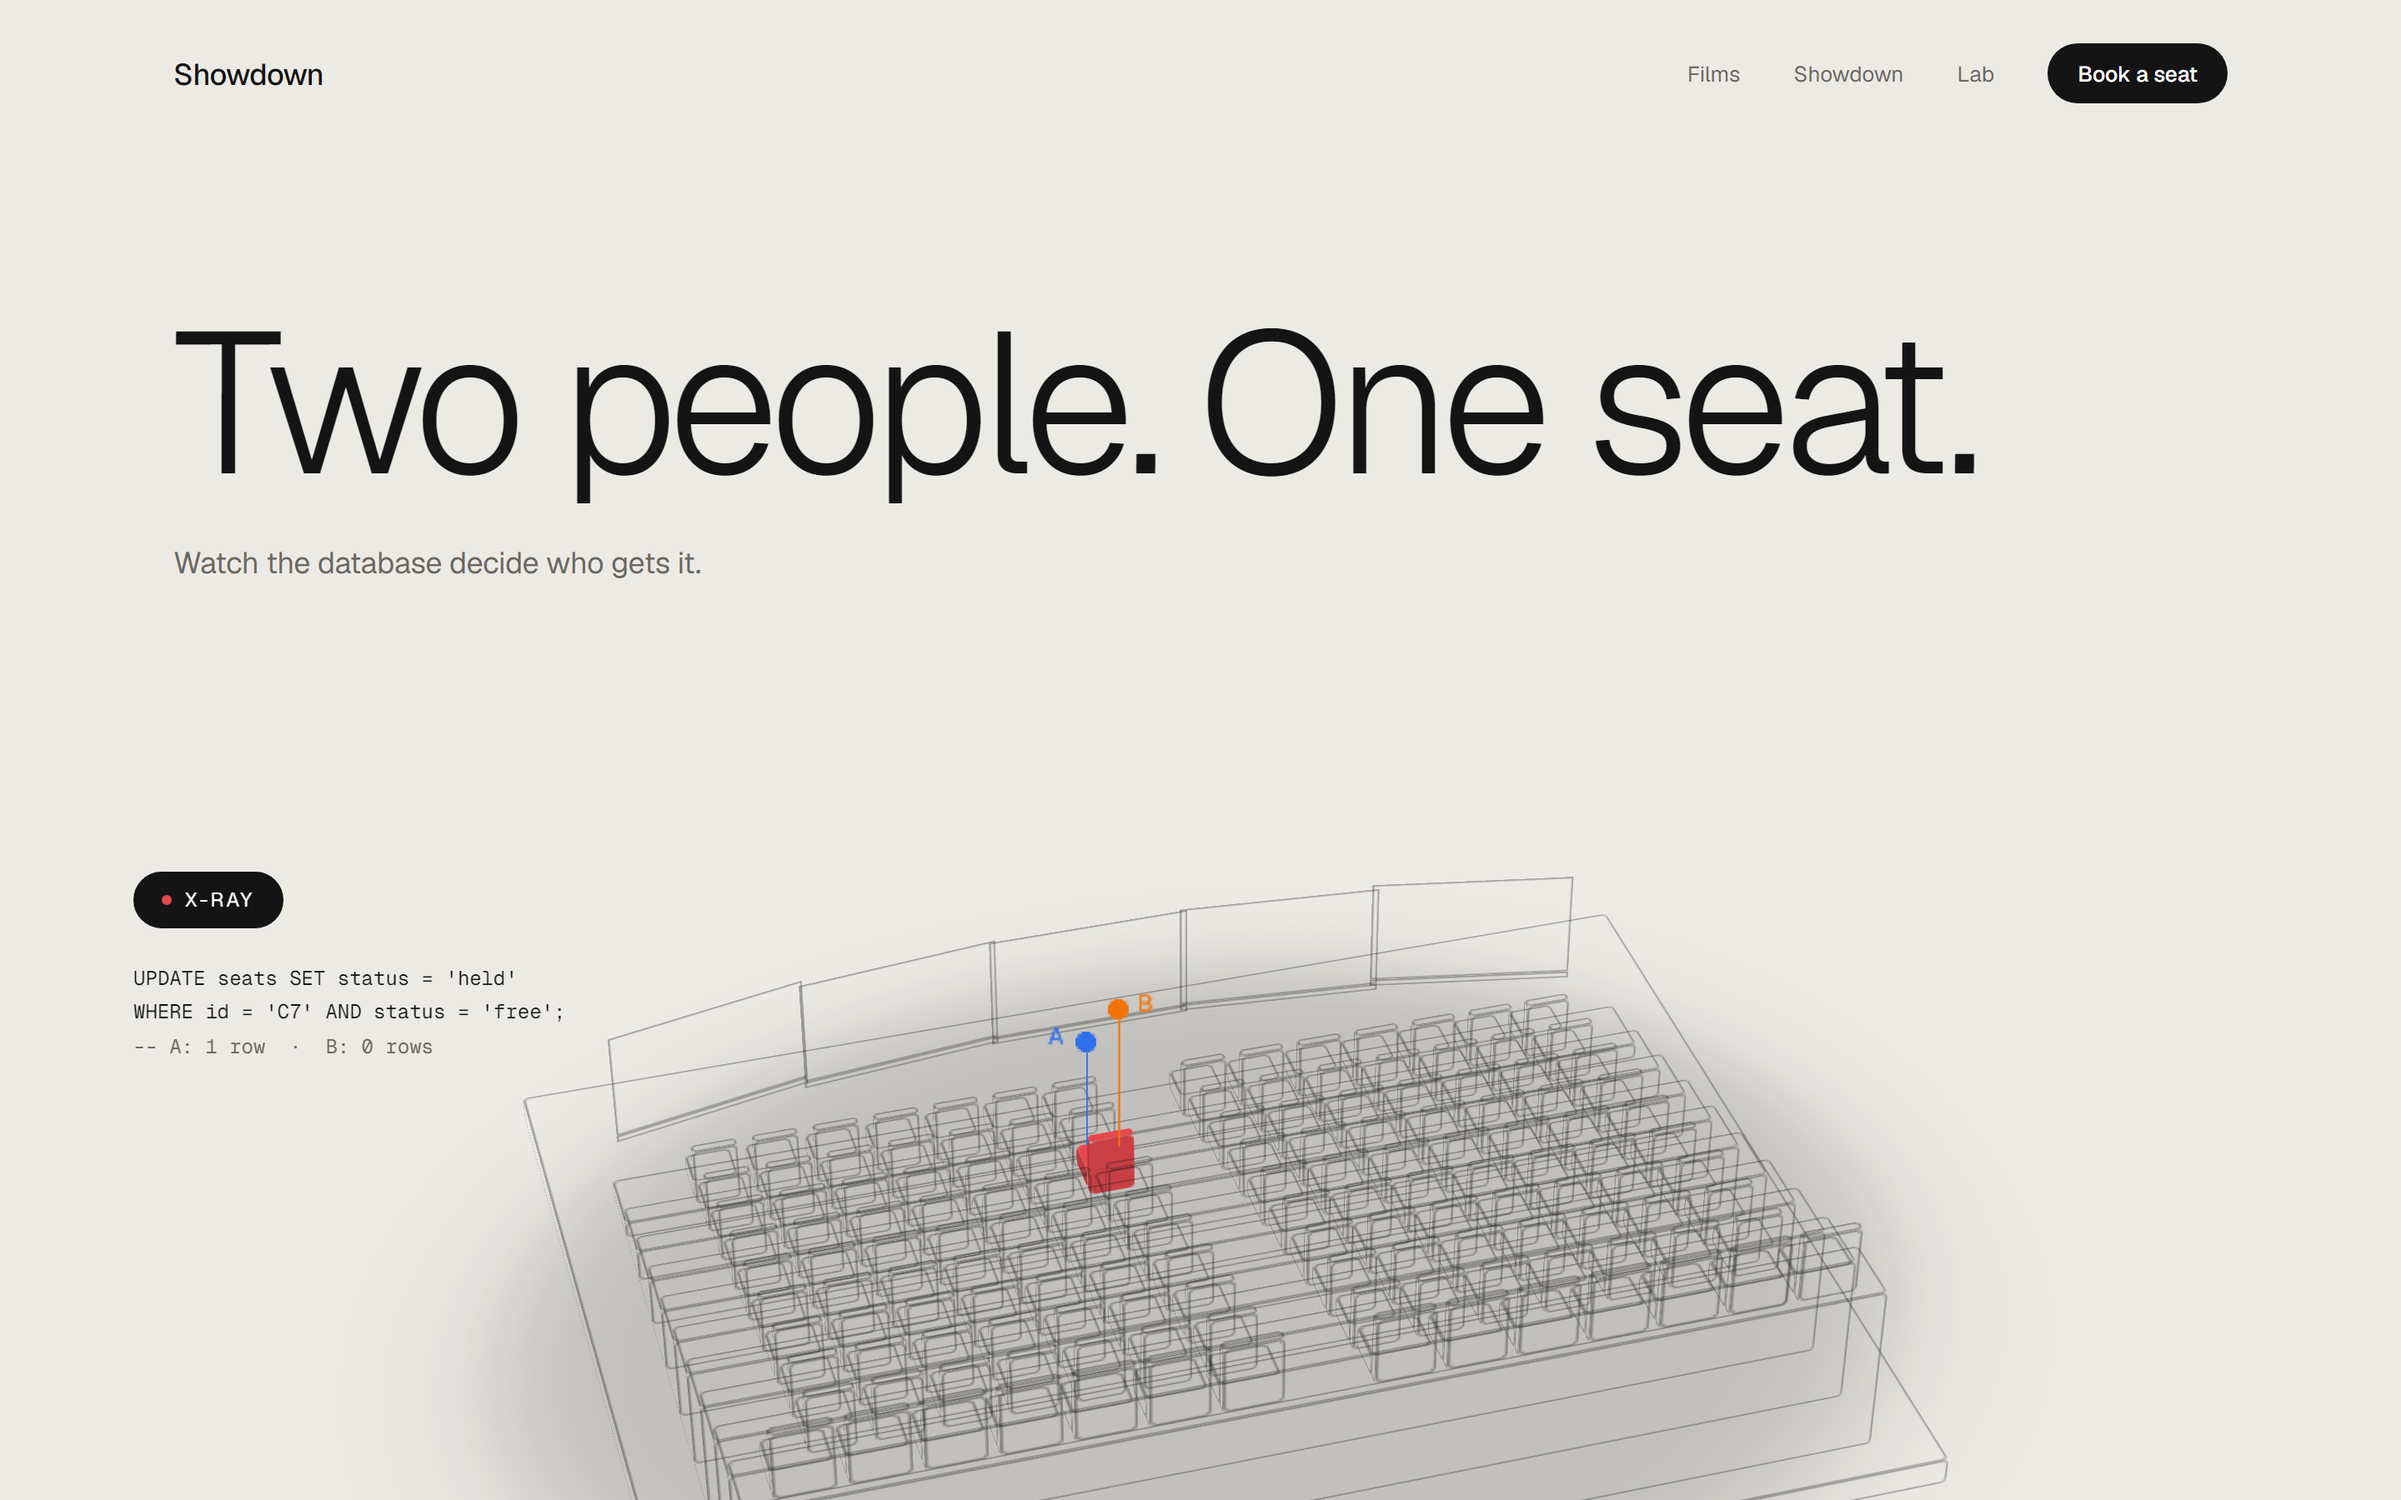
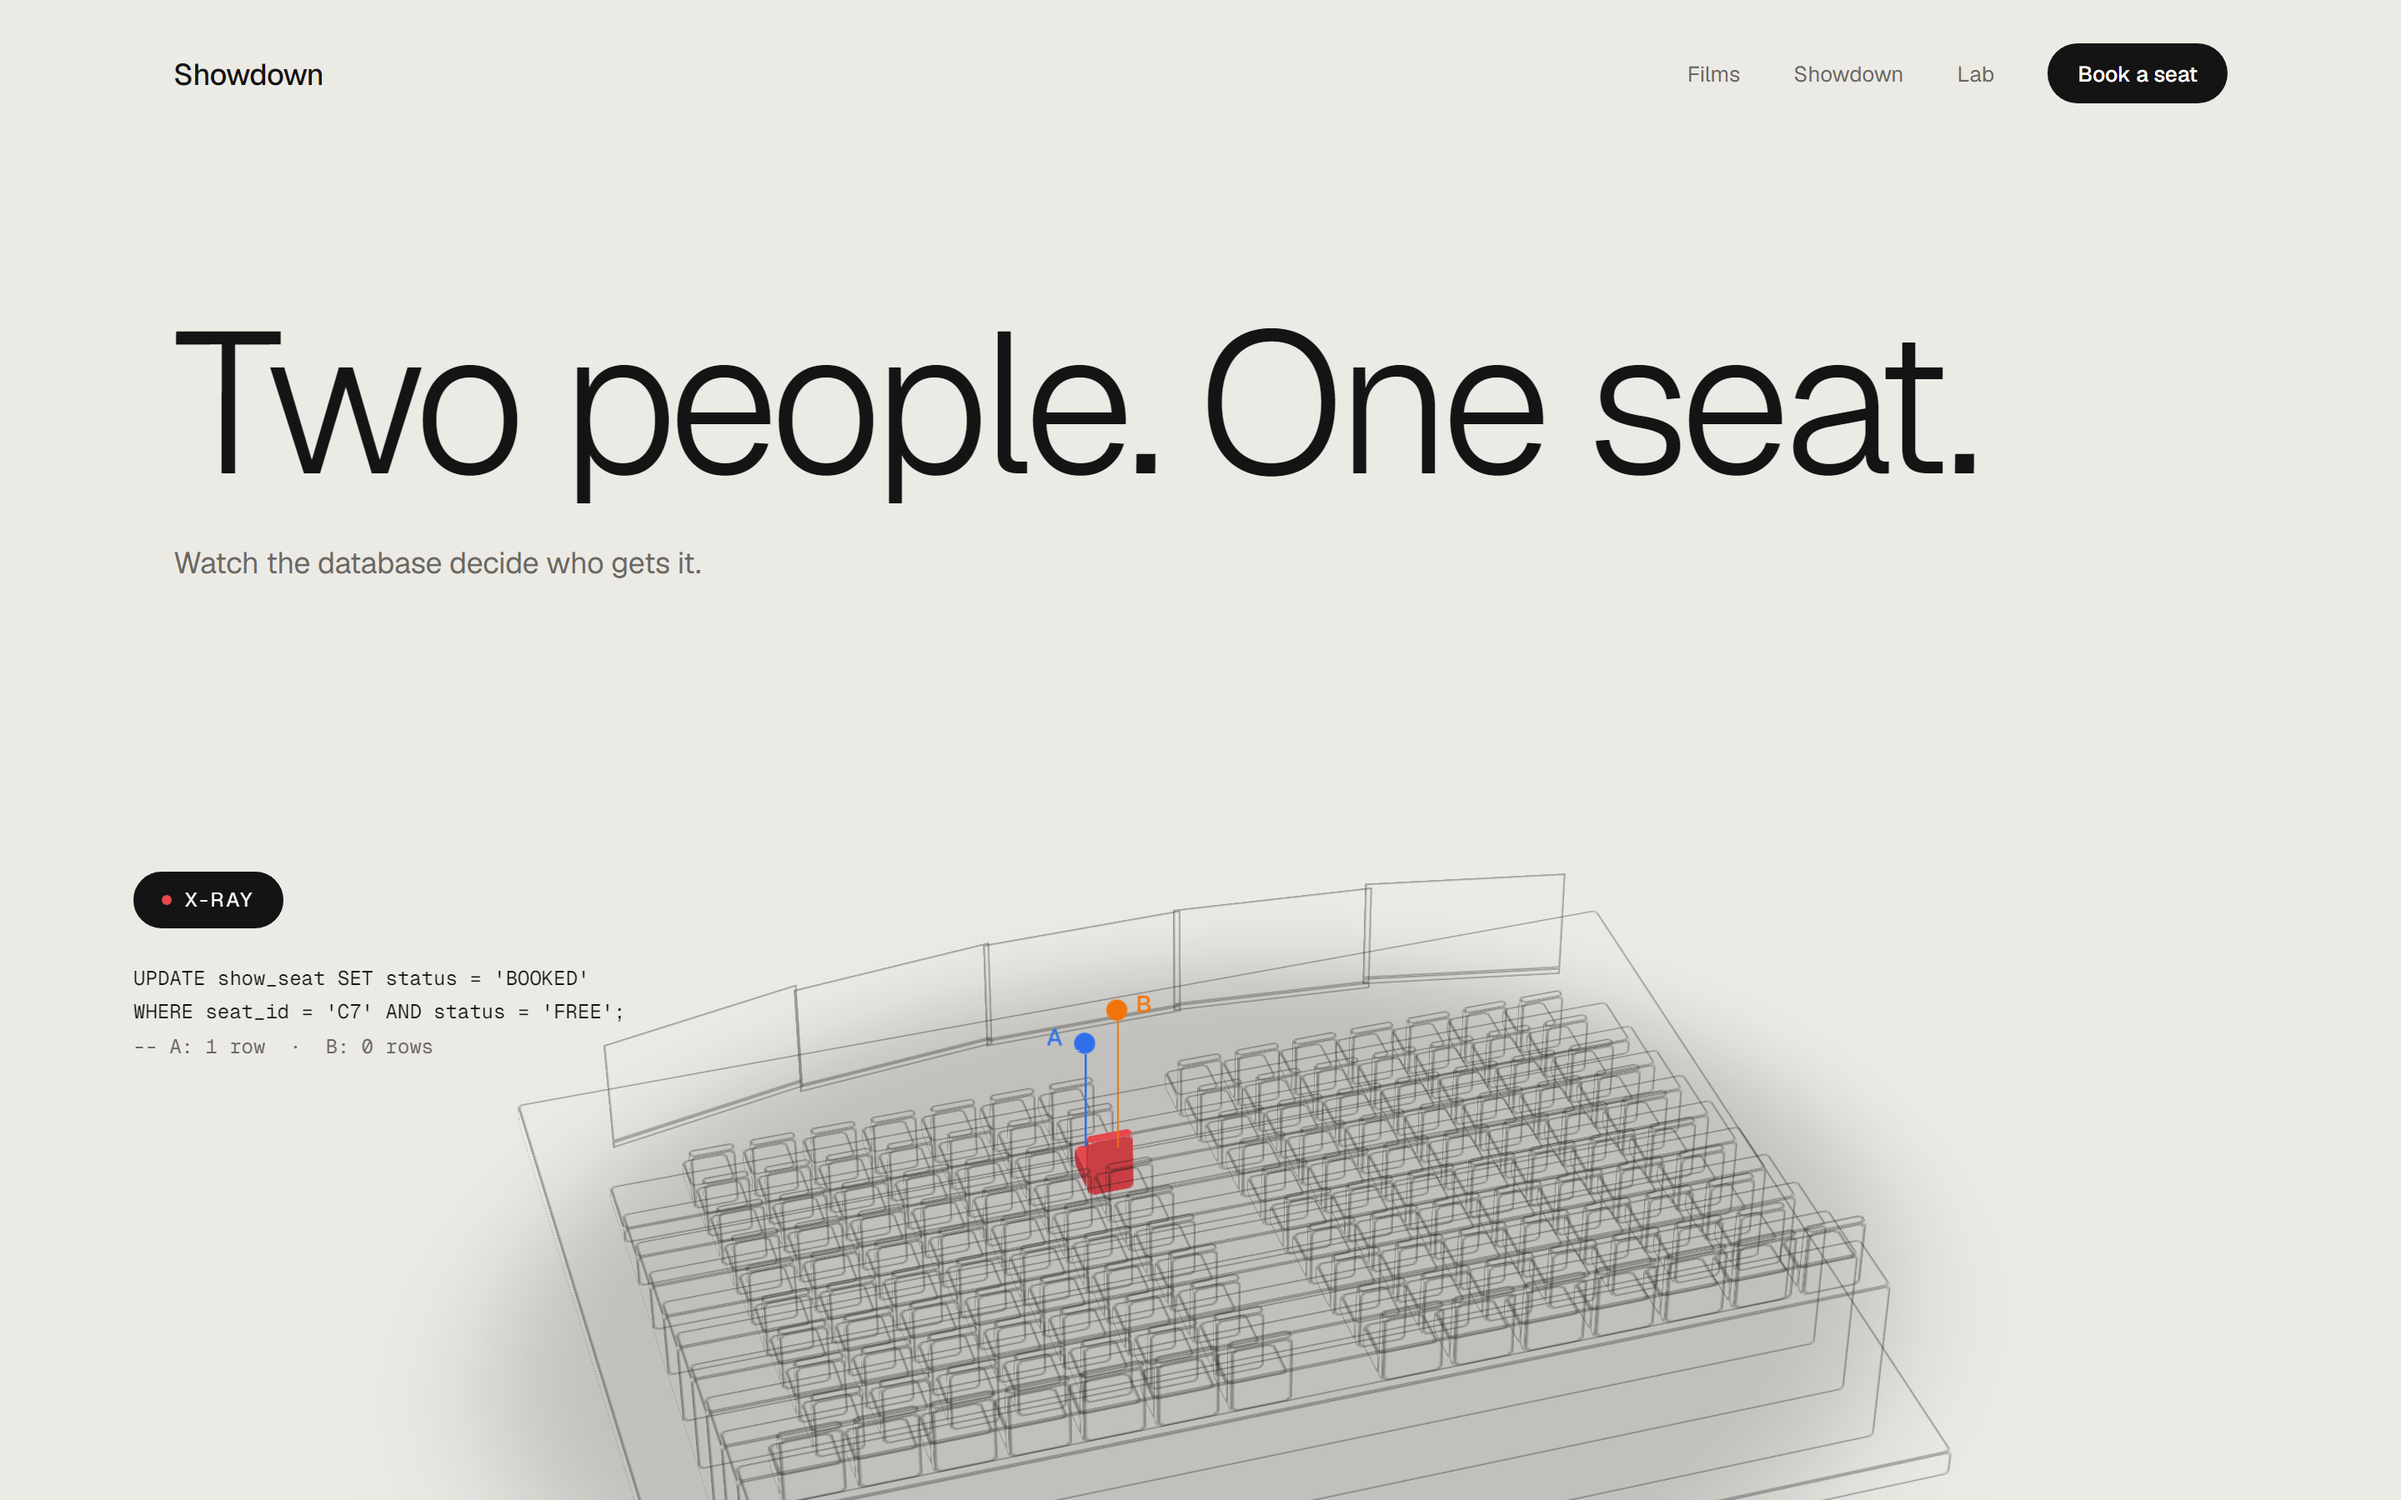
Add MIT license, CI (typecheck, build, tests on real PostgreSQL), fix X-Ray SQL
Claude-Session: https://claude.ai/code/session_01AUf5Eqs5JNWZr5PoZSLjvP

diff --git a/web/src/pages/Home.tsx b/web/src/pages/Home.tsx
@@ -69,8 +69,8 @@ export default function Home() {
           </button>
           <div style={{ marginTop: 20, opacity: xray ? 1 : 0, transform: `translateY(${xray ? 0 : 6}px)`, transition: 'opacity .5s ease,transform .5s ease', pointerEvents: 'none' }} aria-hidden={!xray}>
             <div className="mono" style={{ fontSize: 12, lineHeight: 1.7 }}>
-              <div>UPDATE seats SET status = 'held'</div>
-              <div>WHERE id = 'C7' AND status = 'free';</div>
+              <div>UPDATE show_seat SET status = 'BOOKED'</div>
+              <div>WHERE seat_id = 'C7' AND status = 'FREE';</div>
               <div style={{ color: 'var(--muted)' }}>-- A: 1 row &nbsp;·&nbsp; B: 0 rows</div>
             </div>
           </div>

diff --git a/README.md b/README.md
@@ -13,7 +13,8 @@ deadlock, or (with protection off) double-book it, live.
 ![Node.js](https://img.shields.io/badge/Node.js-141414?style=flat-square&logo=nodedotjs&logoColor=5FA04E)
 ![PostgreSQL](https://img.shields.io/badge/PostgreSQL_17-141414?style=flat-square&logo=postgresql&logoColor=4169E1)
 ![WebSockets](https://img.shields.io/badge/WebSockets-141414?style=flat-square)
-![Tests](https://img.shields.io/badge/tests-57_passing-1F8A5B?style=flat-square)
+[![CI](https://img.shields.io/github/actions/workflow/status/moizali-devs/showdown/ci.yml?branch=main&style=flat-square&label=tests)](https://github.com/moizali-devs/showdown/actions/workflows/ci.yml)
+[![License: MIT](https://img.shields.io/badge/license-MIT-141414?style=flat-square)](LICENSE)
 
 ![Showdown home page: a matte 3D cinema hall with two customers reaching for seat C7](docs/media/hero.png)
 
